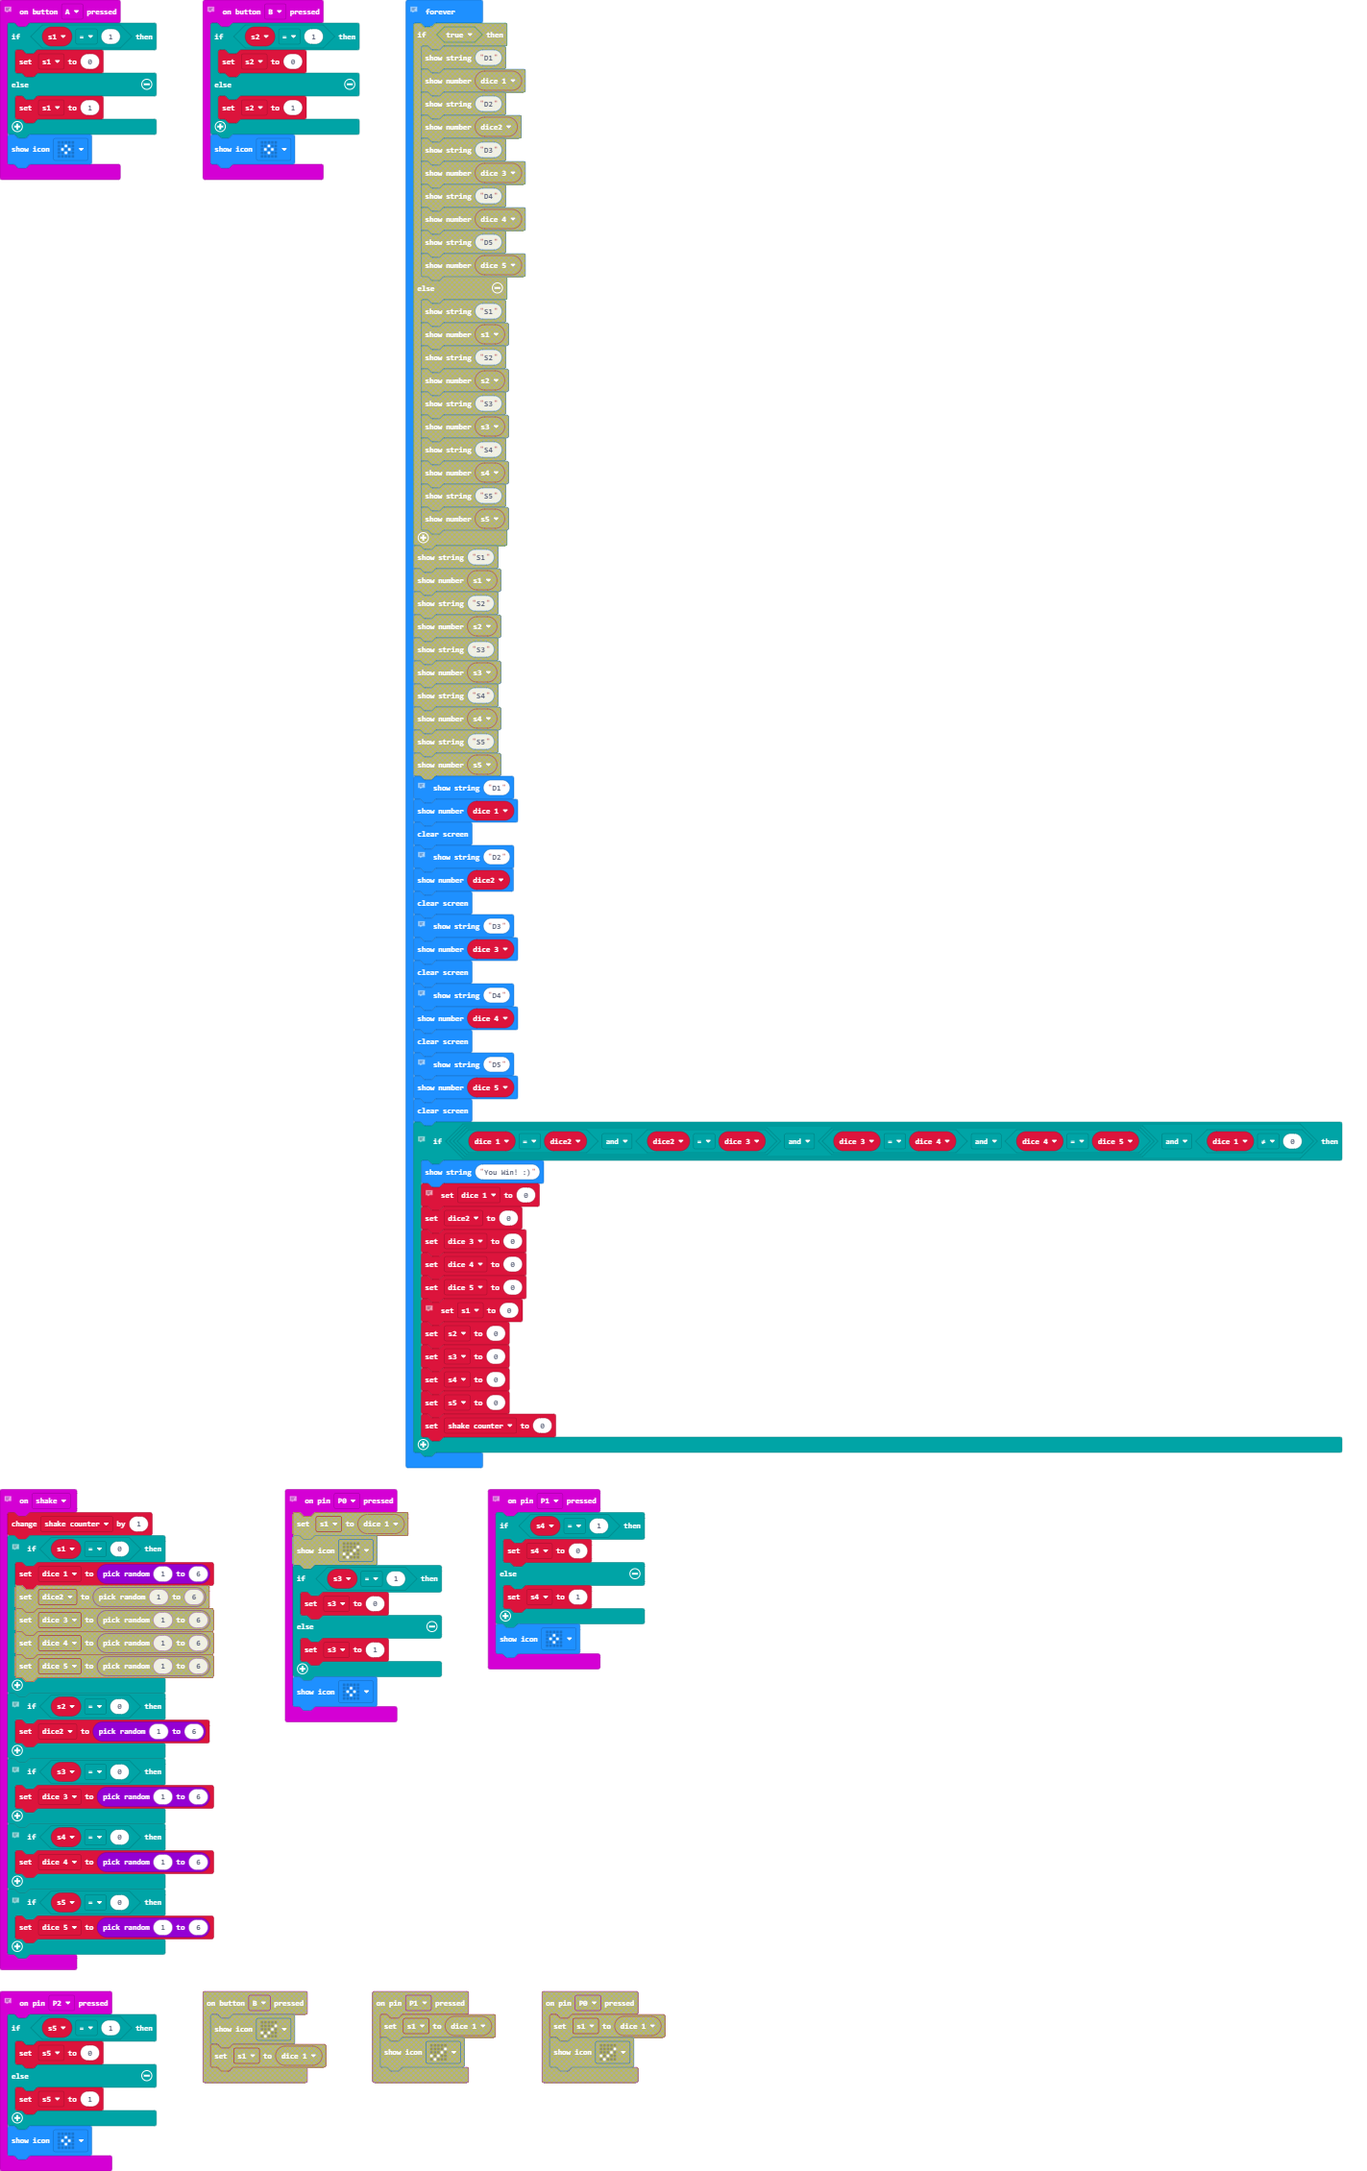
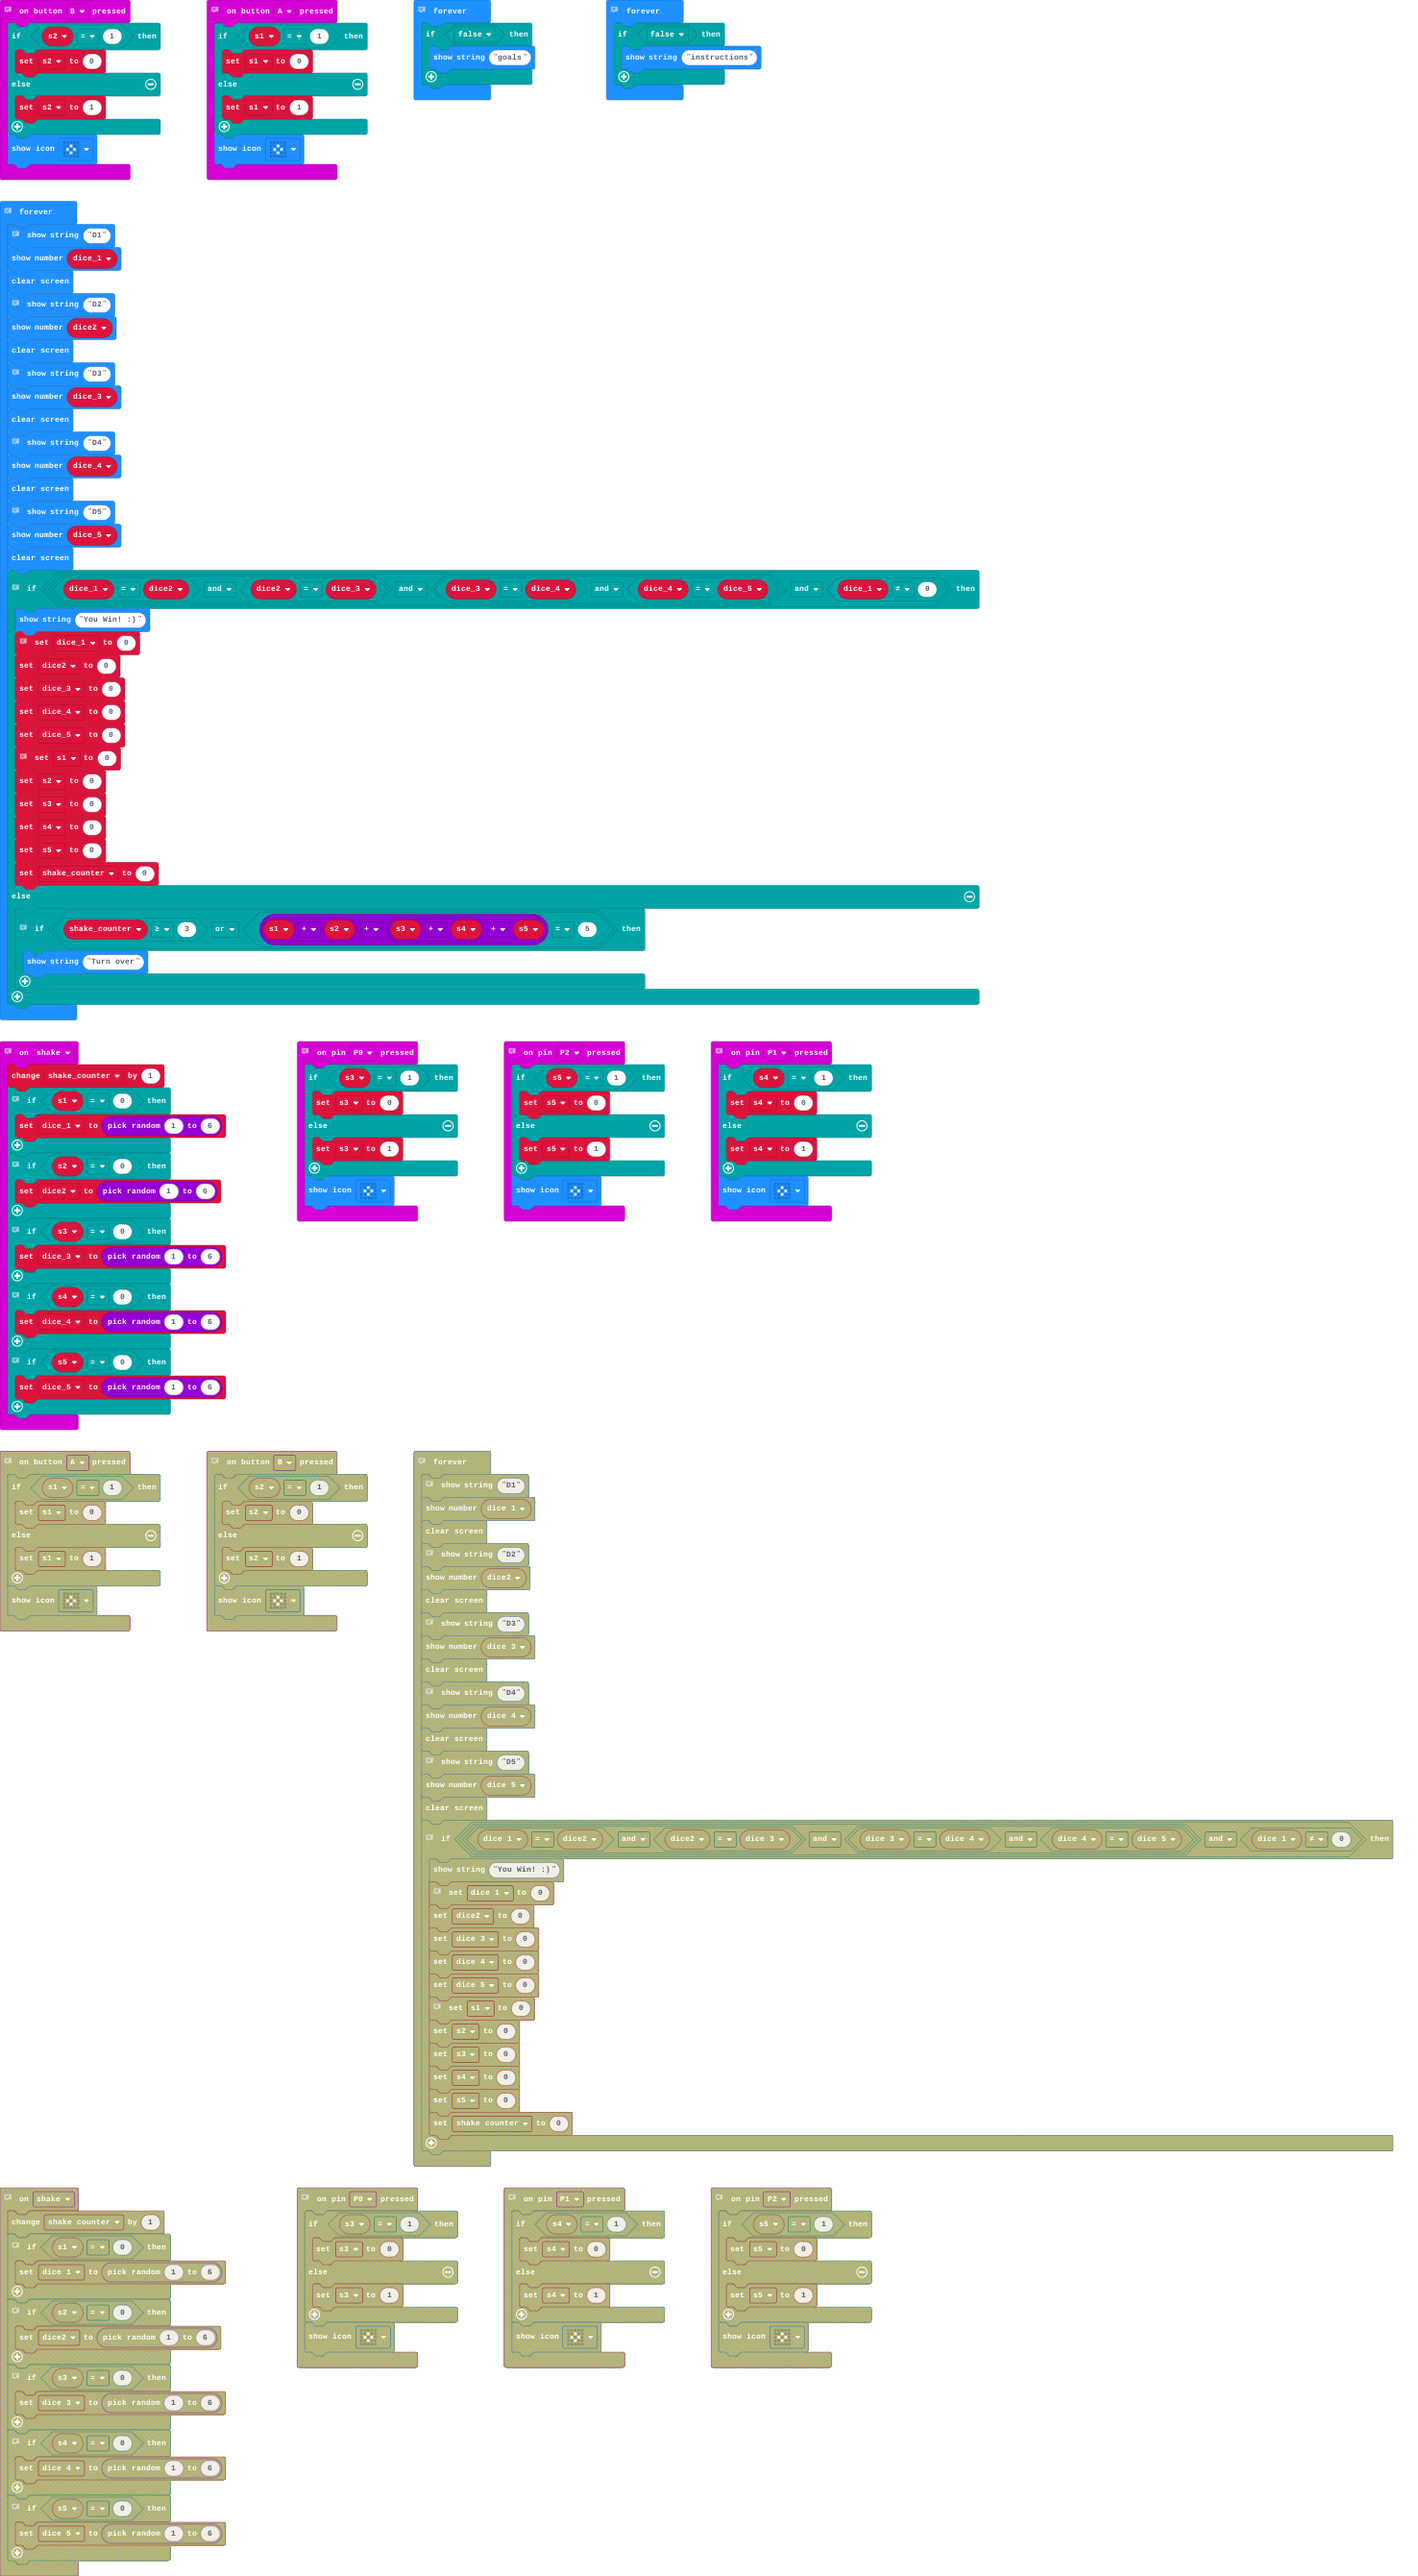
Update main.blocks, main.ts

Changed region(s): [[0.0, 0.0, 0.9895, 1.0]]

diff --git a/main.ts b/main.ts
@@ -78,6 +78,36 @@ input.onGesture(Gesture.Shake, function () {
         dice_5 = randint(1, 6)
     }
 })
+// this block should do nothing to the program. it is meant to hold the ideas of what the game needs to have
+// - 5 different dice
+// - a player wins when they get all 5 of the dice to show the same number
+// - each player's turn consists of up to 3 die rolls
+// - a player wins when they get all of the dice to show the same number
+// - players may choose what dice they roll, and what ones they don't
+// - a display to show what the dice values are
+// - 
+basic.forever(function () {
+    if (false) {
+        basic.showString("goals")
+    }
+})
+// this block should do nothing to the program. it is meant to hold the instructions on how to play.
+// each turn a player will:
+// - roll the dice 3 times
+// - save dice (not roll them)
+// - attempt to get all the dice to show the same number
+// 
+// A player wins when they make all of the  dice show the same number
+// 
+// - To roll, a player must shake the micro:bit.
+// - to toggle weather or not a dice will be rolled, the player must press the corresponding button/input
+// - to end their turn, a player should have all of the dice saved or run out of rolls
+// - 
+basic.forever(function () {
+    if (false) {
+        basic.showString("instructions")
+    }
+})
 // repeatedly displays the dice values forever
 basic.forever(function () {
     // displays the value of dice 1
@@ -116,5 +146,10 @@ basic.forever(function () {
         s4 = 0
         s5 = 0
         shake_counter = 0
+    } else {
+        // ends turn
+        if (shake_counter >= 3 || s1 + s2 + (s3 + s4 + s5) == 5) {
+            basic.showString("Turn over")
+        }
     }
 })
